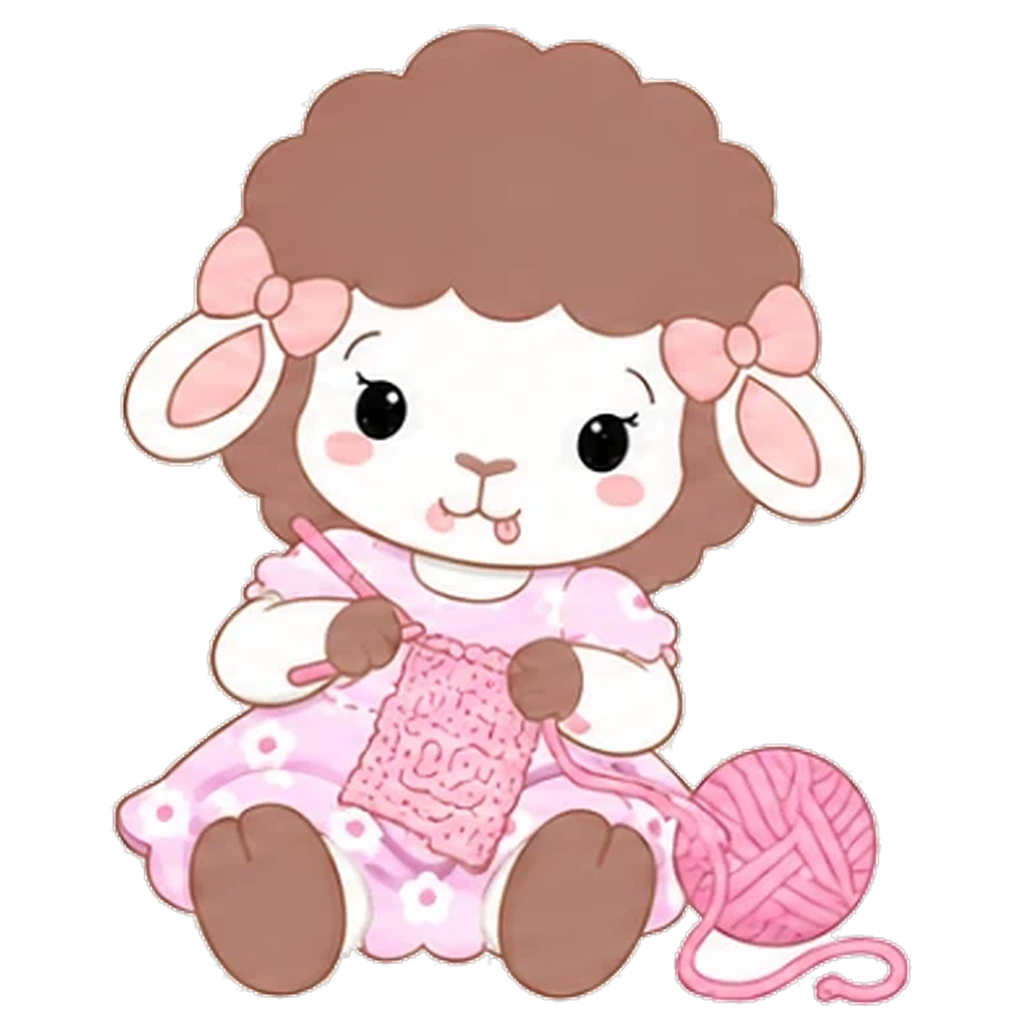
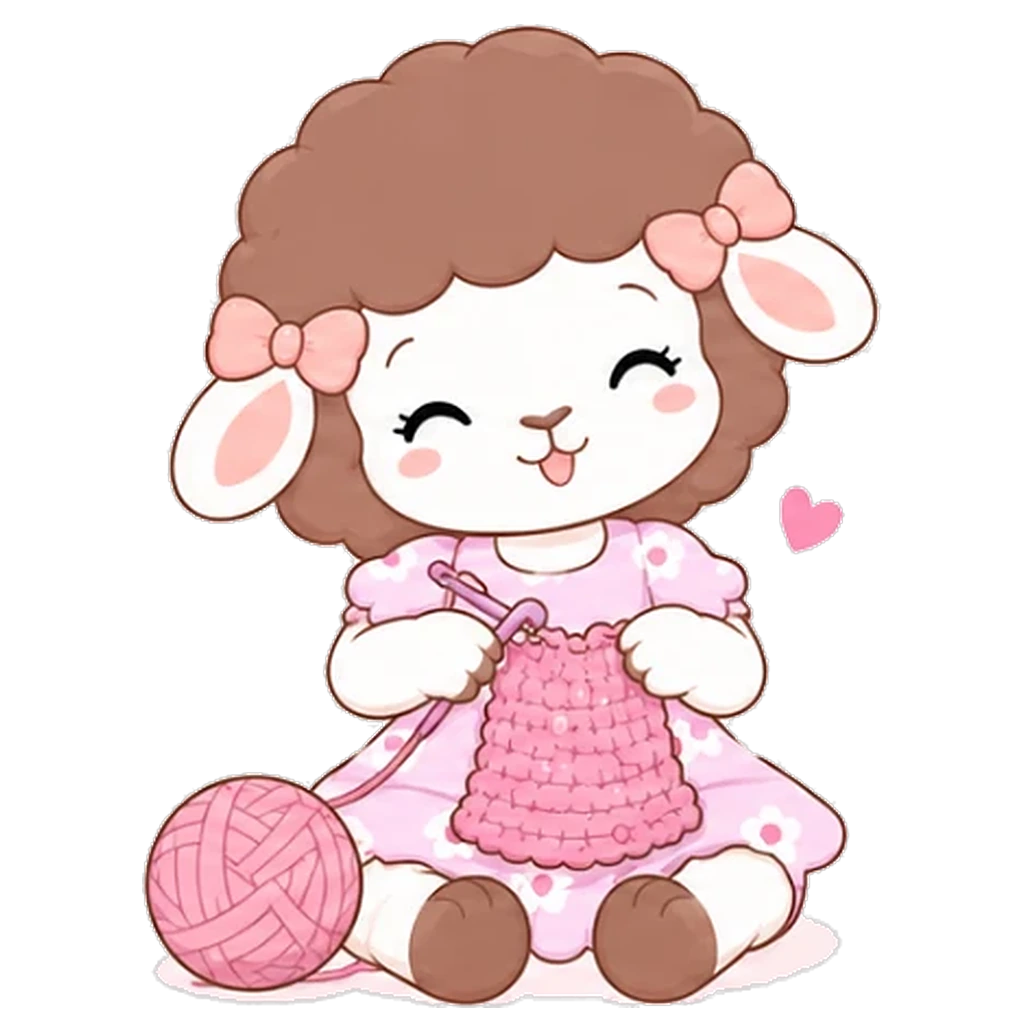
Cuento: pose tejiendo nueva y fotos reales en juegos y tutorial (#330)
* Rosina tejiendo: nueva pose con gancho; pendientes de poses borrosas

Claude-Session: https://claude.ai/code/session_01U9SAsfVct6L94yoocG63si

* Juegos y tutorial: fotos reales de ovillos, gancho, tijeras, aguja y nudo corredizo

Claude-Session: https://claude.ai/code/session_01U9SAsfVct6L94yoocG63si

* Arregla el cierre de plantilla en app.js del cuento

Claude-Session: https://claude.ai/code/session_01U9SAsfVct6L94yoocG63si

---------

diff --git a/aventuras-de-rosina/js/dibujos.js b/aventuras-de-rosina/js/dibujos.js
@@ -3,7 +3,7 @@
 // Rosina NO se dibuja aquí: usa las imágenes oficiales de /img/stickers/; los amigos, las poses de /img/aventuras/plano/ (ver personajes.js).
 // Para reemplazar un dibujo por una imagen o un video final, ver herramientas/aventuras-de-rosina/LEEME.md (sección "Cambiar dibujos por fotos o videos").
 
-import { POSES_PLANO } from '../contenido/personajes.js?v=25';
+import { POSES_PLANO } from '../contenido/personajes.js?v=28';
 
 const HA = '#cc1786';   // hilo, borde (fucsia de marca)
 const HB = '#ff66c4';   // hilo, relleno (rosa de marca)
@@ -28,6 +28,10 @@ const defsFlecha = `<defs><marker id="pf" viewBox="0 0 10 10" refX="8" refY="5" 
  *  hacia la derecha; ang gira el conjunto. La imagen se estira un poco a lo largo para que quede más cuerpo fino donde van los bucles. */
 const IMP = '/img/aventuras/implementos/';
 const imagen = (nombre, x, y, w, h, ajuste = 'xMidYMid meet') => `<image href="${IMP}${nombre}.webp" x="${x}" y="${y}" width="${w}" height="${h}" preserveAspectRatio="${ajuste}"/>`;
+// Fotos reales de los juegos (hojas de Sara, 17-oct-2026; recortes en img/aventuras/fotos/ con herramientas/aventuras-de-rosina/recortar_fotos_juegos.py).
+const CREMA = '#F6F3EC';
+const foto = (n, x, y, w, h) => `<image href="/img/aventuras/fotos/${n}.webp" x="${x}" y="${y}" width="${w}" height="${h}" preserveAspectRatio="xMidYMid meet"/>`;
+const svgFoto = (contenido) => `<svg class="dib dib-foto" viewBox="0 0 330 200" role="presentation" aria-hidden="true" focusable="false" xmlns="http://www.w3.org/2000/svg"><rect width="100%" height="100%" rx="18" fill="${CREMA}"/>${contenido}</svg>`;
 const gancho = (x, y, ang = 0, s = 1) =>
   `<g transform="translate(${x} ${y}) rotate(${ang}) scale(${s})">${imagen('gancho', 0, -9.1, 190, 31.4, 'none')}</g>`;
 
@@ -61,35 +65,31 @@ const PINTORES = {
     ${gancho(150, 134, -3, .55)}
     <ellipse cx="170" cy="188" rx="46" ry="9" fill="#FBE4EF"/>`),
 
-  ovillo: (p) => svg(`
-    ${imagen('ovillo', 92, 14, 150, 164)}
-    ${p.cola ? `${texto(66, 188, 'la cola', 14)}` : ''}`),
+  ovillo: (p) => svgFoto(`
+    ${foto('ovillo', 70, 4, 190, 192)}
+    ${p.cola ? `<rect x="196" y="160" width="86" height="26" rx="13" fill="#fff" opacity=".9"/>${texto(239, 178, 'la cola', 14)}` : ''}`),
 
-  gancho: () => svg(`${defsFlecha}
-    ${gancho(36, 100, 0, 1.3)}
-    ${texto(40, 58, 'Punta', 15)}${flecha('M42,64 L40,90')}
-    ${texto(140, 160, 'Curva', 15)}${texto(140, 178, 'del gancho', 14, 'middle', 500)}${flecha('M124,146 L54,100')}
-    ${texto(225, 62, 'Mango', 15)}${flecha('M225,68 L225,88')}`),
+  gancho: () => svgFoto(`${defsFlecha}
+    ${foto('gancho', 60, 4, 210, 192)}
+    <rect x="12" y="14" width="58" height="26" rx="13" fill="#fff" opacity=".92"/>${texto(41, 32, 'Punta', 15)}${flecha('M46,42 L84,58')}
+    <rect x="12" y="92" width="112" height="44" rx="14" fill="#fff" opacity=".92"/>${texto(68, 110, 'Curva', 15)}${texto(68, 127, 'del gancho', 14, 'middle', 500)}${flecha('M96,92 L98,58')}
+    <rect x="250" y="120" width="68" height="26" rx="13" fill="#fff" opacity=".92"/>${texto(284, 138, 'Mango', 15)}${flecha('M262,120 L238,104')}`),
 
   // Tijeras de punta redonda y aguja lanera de punta roma (ilustraciones de ChatGPT recortadas en img/aventuras/implementos/).
-  tijeras: () => svg(`
-    ${imagen('tijeras', 12, 18, 176, 115)}
-    ${texto(100, 156, 'Tijeras de punta redonda', 14)}
-    ${imagen('aguja', 196, 24, 124, 53)}
-    ${texto(258, 98, 'Aguja lanera', 14)}${texto(258, 114, '(punta roma)', 13, 'middle', 500)}
-    <rect x="206" y="140" width="104" height="30" rx="15" fill="${HA}"/>${texto(258, 161, 'Solo adultos', 14, 'middle', 700, '#fff')}`),
+  tijeras: () => svgFoto(`
+    ${foto('tijeras', 6, 4, 150, 150)}${texto(81, 172, 'Tijeras de punta', 13)}${texto(81, 188, 'redonda', 13)}
+    ${foto('aguja', 160, 14, 166, 124)}${texto(243, 152, 'Aguja lanera', 14)}${texto(243, 168, '(punta roma)', 12, 'middle', 500)}
+    <rect x="198" y="174" width="92" height="22" rx="11" fill="${HA}"/>${texto(244, 190, 'Solo adultos', 12, 'middle', 700, '#fff')}`),
 
   nudo1: () => svg(`${defsFlecha}
     ${hilo('M60,176 C80,146 122,116 150,100 C202,64 214,16 164,22 C114,28 118,82 150,100 C176,116 222,150 268,176', 8)}
     ${texto(58, 196, 'la cola', 14, 'start')}${texto(270, 196, 'al ovillo', 14, 'end')}
     ${texto(240, 40, 'cruza los hilos', 14, 'start')}${flecha('M238,46 L170,92')}`),
 
-  nudo2: () => svg(`${defsFlecha}
-    ${gancho(60, 96, 0, 1.2)}
-    ${lazoGancho(100, 96, 15, 22)}
-    ${hilo('M118,120 C112,150 96,170 70,184', 6)}${hilo('M122,72 C150,40 230,44 270,70', 6)}
-    ${texto(70, 196, 'la cola', 14, 'middle')}${texto(262, 40, 'al ovillo', 14, 'end')}
-    ${texto(190, 150, 'bucle en el gancho', 14, 'start')}${flecha('M188,142 L138,108')}`),
+  nudo2: () => svgFoto(`${defsFlecha}
+    ${foto('nudo-corredizo', 0, 20, 330, 160)}
+    <rect x="8" y="150" width="64" height="26" rx="13" fill="#fff" opacity=".92"/>${texto(40, 168, 'al ovillo', 14)}
+    <rect x="150" y="150" width="172" height="26" rx="13" fill="#fff" opacity=".92"/>${texto(236, 168, 'bucle en el gancho', 14)}${flecha('M200,150 L130,100')}`),
 
   // Agarre de cuchillo: la mano que más usas toma el gancho desde arriba (el mango descansa en la palma y el índice se apoya sobre el gancho);
   // la otra mano sujeta la base del nudo entre el pulgar y el dedo medio, y el hilo pasa por el índice. Dibujo esquemático y provisional.
@@ -143,12 +143,7 @@ const PINTORES = {
     ${texto(176, 160, 'jala por los 2 bucles', 15, 'start')}${flecha('M170,152 L126,116')}
     ${texto(160, 44, 'queda 1 bucle', 15)}`),
 
-  // Solo la lana ideal (gruesa y clara) usa la imagen del ovillo; la fina y la peluda conservan su dibujo.
-  muestraLana: (p) => {
-    if (p.variante === 'gruesa') return svg(`${imagen('ovillo', 28, 12, 150, 164)}${hilo('M158,150 C196,176 224,120 262,146', 13, HA, '#FFC6E2')}`, '0 0 300 200');
-    if (p.variante === 'fina') return svg(`<circle cx="100" cy="100" r="40" fill="#4a3a4f" stroke="#2b2430" stroke-width="3"/>${[0, 1, 2, 3, 4, 5].map((i) => `<path d="M${64 + i * 4},${84 + i * 8} q36,-14 ${72 - i * 8},2" fill="none" stroke="#7d6a82" stroke-width="1.5"/>`).join('')}${hilo('M140,124 C170,108 190,150 220,128 S250,118 276,130', 2.5, '#2b2430', '#5b4a60')}`, '0 0 300 200');
-    return svg(`<circle cx="100" cy="100" r="50" fill="#e29ac0" stroke="#b86f97" stroke-width="3"/>${Array.from({ length: 36 }, (_, i) => { const a = (i / 36) * Math.PI * 2; return `<path d="M${100 + Math.cos(a) * 46},${100 + Math.sin(a) * 46} l${Math.cos(a) * 16},${Math.sin(a) * 16}" stroke="#b86f97" stroke-width="3" stroke-linecap="round"/>`; }).join('')}${hilo('M156,128 C186,112 206,150 236,128 S262,118 282,130', 12, '#b86f97', '#e29ac0')}`, '0 0 300 200');
-  },
+  muestraLana: (p) => svgFoto(foto({ gruesa: 'lana-gruesa', fina: 'lana-fina', peluda: 'lana-peluda' }[p.variante] || 'lana-gruesa', 0, 0, 330, 200)),
 
   nudoSolo: () => svg(`${hilo('M70,120 C90,40 170,50 150,110 C130,170 60,130 120,80 C180,30 250,90 200,130 C160,160 120,130 160,100', 7)}${hilo('M60,150 C30,170 40,190 80,186 M200,140 C240,160 270,150 280,176', 7)}`),
 

diff --git a/aventuras-de-rosina/contenido/misiones.js b/aventuras-de-rosina/contenido/misiones.js
@@ -49,7 +49,7 @@ export const MISIONES = [
           titulo: 'El gancho',
           texto: 'El gancho de crochet tiene una punta, una curva donde se engancha el hilo y un mango. Para empezar, puedes usar uno de 5 a 6 mm con un mango cómodo.',
           dibujo: { tipo: 'gancho' },
-          alt: 'Dibujo de un gancho de crochet con sus 3 partes señaladas: punta, curva y mango.',
+          alt: 'Foto de un gancho de crochet con sus 3 partes señaladas: punta, curva y mango.',
           pista: 'La curva cerca de la punta ayuda a sujetar el hilo. La llamaremos “la curva del gancho”.',
           simple: 'Mira tu gancho y señala la punta, la curva y el mango.',
           adulto: 'Un mango ancho facilita el agarre en manos pequeñas. Revise que la punta esté lisa y sin rebabas antes de cada sesión.',
@@ -58,7 +58,7 @@ export const MISIONES = [
           titulo: 'Tijeras y aguja lanera',
           texto: 'Las tijeras las usa solo una persona adulta. La aguja lanera, de punta roma, la usaremos más adelante para esconder los hilitos.',
           dibujo: { tipo: 'tijeras' },
-          alt: 'Dibujo de unas tijeras de punta redonda y una aguja lanera con un aviso: las usa un adulto.',
+          alt: 'Foto de unas tijeras de punta redonda y una aguja lanera con un aviso: las usa un adulto.',
           pista: 'Si necesitas cortar el hilo, pídele a un adulto que lo haga contigo.',
           simple: 'Practica decir en voz alta: “¿Me ayudas a cortar el hilo, por favor?”.',
           adulto: 'Use tijeras de punta redonda. Guarde las agujas y los ganchos en un estuche al terminar. No deje tijeras al alcance de menores sin supervisión.',
@@ -180,7 +180,7 @@ export const MISIONES = [
           titulo: 'El nudo inicial (nudo corredizo)',
           texto: 'Pasa el gancho por el centro del lazo. Con el gancho, toma la hebra que viene del ovillo y pásala a través del lazo. Coloca el nuevo bucle en el gancho y tira suavemente de la cola para ajustar el nudo.',
           dibujo: { tipo: 'nudo2' },
-          alt: 'Dibujo de un gancho con un bucle de hilo ya puesto: el nudo inicial.',
+          alt: 'Foto de un gancho con un bucle de hilo ya puesto: el nudo inicial.',
           pista: 'Tira de la cola, no de la hebra que viene del ovillo. El bucle debe quedar sujeto, pero poder deslizarse por el gancho.',
           simple: 'Pide a una persona adulta que haga el nudo una vez y observa cómo se ajusta tirando de la cola.',
           adulto: 'El nudo inicial se ajusta tirando de la cola. Compruebe que el bucle se deslice por el gancho sin quedar flojo ni demasiado apretado.',

diff --git a/aventuras-de-rosina/js/app.js b/aventuras-de-rosina/js/app.js
@@ -3,14 +3,14 @@
 // Privacidad: no hay cuentas, ni cookies, ni analítica, ni peticiones a servidores. Todo vive en este navegador (ver estado.js).
 // Para cambiar textos o añadir capítulos NO hay que tocar este archivo: ver contenido/misiones.js y herramientas/aventuras-de-rosina/LEEME.md.
 
-import { MISIONES, FUTUROS, LOGROS } from '../contenido/misiones.js?v=25';
-import { PERSONAJES, POSES_ROSINA, AMIGOS, PALETA } from '../contenido/personajes.js?v=25';
-import { personaje, dibujo, mapaFondo } from './dibujos.js?v=25';
-import { jugar, miniBosque } from './juegos.js?v=25';
-import * as E from './estado.js?v=25';
-import * as voz from './voz.js?v=25';
-import * as musica from './musica.js?v=25';
-import { pers, sinNombre } from './nombre.js?v=25';
+import { MISIONES, FUTUROS, LOGROS } from '../contenido/misiones.js?v=28';
+import { PERSONAJES, POSES_ROSINA, AMIGOS, PALETA } from '../contenido/personajes.js?v=28';
+import { personaje, dibujo, mapaFondo } from './dibujos.js?v=28';
+import { jugar, miniBosque } from './juegos.js?v=28';
+import * as E from './estado.js?v=28';
+import * as voz from './voz.js?v=28';
+import * as musica from './musica.js?v=28';
+import { pers, sinNombre } from './nombre.js?v=28';
 
 // Título del libro (Libro 1 de «Rosina y el Bosque Tejido», que es el nombre del mundo y del mapa).
 const TITULO_LIBRO = 'Rosina y la gran aventura de la primera cadeneta';
@@ -75,7 +75,8 @@ const vozOk = () => vozListo;
 const botonVoz = () => (vozListo ? '<button type="button" class="btn-voz" data-accion="leer" aria-label="Escuchar en voz alta" title="Escuchar">🔊</button>' : '');
 
 // ---------------------------------------------------------------- piezas comunes
-const fig = (def, alt) => `<figure class="paso-fig"><div class="paso-dib">${dibujo(def)}</div><figcaption class="paso-alt">${esc(alt)} <span class="provisional">Dibujo de ayuda (provisional)</span></figcaption></figure>`;
+const CON_FOTO = ['ovillo', 'gancho', 'tijeras', 'nudo2'];  // pasos con foto real (img/aventuras/fotos/): sin la etiqueta de dibujo provisional
+const fig = (def, alt) => `<figure class="paso-fig"><div class="paso-dib">${dibujo(def)}</div><figcaption class="paso-alt">${esc(alt)}${CON_FOTO.includes(def && def.tipo) ? '' : ' <span class="provisional">Dibujo de ayuda (provisional)</span>'}</figcaption></figure>`;
 // Rosina en las escenas del libro: los stickers oficiales (varias poses). alt '' la marca como decorativa.
 const ALT_ROSINA = {
   llora: 'Rosina llora de felicidad, rodeada de corazones y estrellitas.', celebra: 'Rosina celebra con los brazos en alto y estrellitas.',

diff --git a/aventuras-de-rosina/js/juegos.js b/aventuras-de-rosina/js/juegos.js
@@ -3,9 +3,9 @@
 // Reglas de diseño: sin tiempo, sin vidas, sin puntaje que compare ni sonidos. Un error siempre recibe una pista amable y se puede
 // reintentar sin límite; tras dos errores se ofrece ver la respuesta y seguir, para que un juego nunca bloquee a nadie.
 
-import { dibujo } from './dibujos.js?v=25';
-import { conNombre } from './nombre.js?v=25';
-import { PALETA, POSES_ROSINA } from '../contenido/personajes.js?v=25';
+import { dibujo } from './dibujos.js?v=28';
+import { conNombre } from './nombre.js?v=28';
+import { PALETA, POSES_ROSINA } from '../contenido/personajes.js?v=28';
 
 const esc = (s) => String(s == null ? '' : s).replace(/[&<>"']/g, (c) => ({ '&': '&amp;', '<': '&lt;', '>': '&gt;', '"': '&quot;', "'": '&#39;' }[c]));
 

diff --git a/aventuras-de-rosina/index.html b/aventuras-de-rosina/index.html
@@ -17,7 +17,7 @@
 <!-- Producto infantil: a propósito NO lleva Google Tag Manager, aviso de cookies, cuentas, carrito ni scripts de terceros.
      Solo usa las fuentes y las imágenes del propio sitio. -->
 <link rel="stylesheet" href="/css/fuentes.css">
-<link rel="stylesheet" href="/aventuras-de-rosina/aventura.css?v=25">
+<link rel="stylesheet" href="/aventuras-de-rosina/aventura.css?v=28">
 </head>
 <body>
 <a class="saltar" href="#app">Saltar al contenido</a>
@@ -61,6 +61,6 @@
   </div>
 </dialog>
 
-<script type="module" src="/aventuras-de-rosina/js/app.js?v=25"></script>
+<script type="module" src="/aventuras-de-rosina/js/app.js?v=28"></script>
 </body>
 </html>

diff --git a/aventuras-de-rosina/contenido/personajes.js b/aventuras-de-rosina/contenido/personajes.js
@@ -35,7 +35,7 @@ export const POSES_ROSINA = {
   orgullosa: '/img/aventuras/rosina-original/orgullosa.webp',
   pensando: '/img/aventuras/rosina-original/pensando.webp',
   enojada: '/img/aventuras/rosina-original/enojada.webp',
-  tejiendo: '/img/aventuras/rosina-original/tejiendo.webp',
+  tejiendo: '/img/aventuras/rosina-original/tejiendo2.webp',
   gancho: '/img/aventuras/rosina-original/gancho.webp',
   contando: '/img/aventuras/rosina-original/contando.webp',
   mapa: '/img/aventuras/rosina-original/mapa.webp',

diff --git a/herramientas/aventuras-de-rosina/recortar_fotos_juegos.py b/herramientas/aventuras-de-rosina/recortar_fotos_juegos.py
@@ -1,0 +1,18 @@
+#!/usr/bin/env python3
+"""Recorta las fotos reales de los juegos de la aventura (hojas de Sara en ilustraciones/juegos-reales/) y las deja en img/aventuras/fotos/
+(WebP de hasta 720 px, sin completar: el juego las centra sobre el color crema del fondo)."""
+import os
+from PIL import Image
+R = os.path.join(os.path.dirname(__file__), 'ilustraciones', 'juegos-reales')
+S = os.path.join(os.path.dirname(__file__), '..', '..', 'img', 'aventuras', 'fotos')
+CORTES = {  # hoja: {nombre: (x0, y0, x1, y1)}
+    'lanas-3-ovillos.webp': {'lana-gruesa': (0, 180, 560, 900), 'lana-fina': (580, 330, 940, 900), 'lana-peluda': (950, 190, 1448, 800)},
+    'implementos-5-fotos.webp': {'ovillo': (4, 4, 481, 538), 'gancho': (490, 4, 960, 538), 'tijeras': (968, 4, 1446, 538), 'aguja': (4, 548, 720, 1084), 'nudo-corredizo': (728, 548, 1446, 1084)},
+}
+os.makedirs(S, exist_ok=True)
+for hoja, d in CORTES.items():
+    im = Image.open(os.path.join(R, hoja)).convert('RGB')
+    for n, caja in d.items():
+        c = im.crop(caja); c.thumbnail((720, 720), Image.LANCZOS)
+        c.save(os.path.join(S, n + '.webp'), quality=82, method=6)
+        print('ok', n, c.size, '#%02x%02x%02x' % c.getpixel((c.width // 2, 3)))

diff --git a/PENDIENTES.md b/PENDIENTES.md
@@ -200,3 +200,6 @@ Libro digital interactivo para niños de 6 a 8 años en `/aventuras-de-rosina/` 
 - [x] Decidido por Sara (17-oct-2026): la puerta a Rosina se llama «El universo de Rosina» (no se cambia) y el chat de Rosina sale en las páginas de Rosina.
 - [ ] Rosina HD (17-oct-2026): Sara pasó 2 hojas de 6 poses en el estilo de su Rosina original (`ilustraciones/rosina-hd/rosina-original.jpg`; delgada, de línea fina). Recortadas por `recortar_hoja_hd.py` en `ilustraciones/rosina-hd/recortes/` (12 poses a 1024 px). **Falta decidir si reemplazan a las del cuento** (hoy cabezona, estilo sticker, y 10 poses de otra hoja) para no mezclar dos estilos de Rosina; Sara pidió además más poses, más expresivas.
 - [x] **Poses de Rosina en el estilo original completas (17-oct):** la hoja de Sara con gancho, dedo arriba, mochila y mapa, diploma y lupa ya está en el cuento (`hoja-6-herramientas.webp`; `tejiendo2.webp` queda sin usar). Las poses traen una sombrita rosada en el piso.
+- [ ] **Poses de Rosina borrosas (17-oct):** salen de hojas pequeñas y se ven suaves. Pedir de nuevo en alta resolución (una pose por imagen o hoja de 4, formato ancho): feliz, flor, gorro, leyendo, cartel, corazón, pulgar, salto, celebra, aplaude, beso, sueño, corriendo, llora; luego, con menos urgencia: abrazo, contando, diploma, enojada, gancho, lupa, mapa, orgullosa, pensando, risa, señalando, sorpresa, triste.
+- [x] Fotos reales de Sara (17-oct) ya en el cuento: 3 ovillos (Laboratorio de colores), ovillo, gancho, tijeras, aguja y nudo corredizo (`img/aventuras/fotos/`, `recortar_fotos_juegos.py`). Siguen como dibujo: mesa, cadenetas, punto bajo, manos (agarre del hilo y del gancho), nudo enredado y los diagramas de pasos; falta la hoja con cadeneta, tejido, nudo y fila (la última imagen de Sara no llegó como archivo) y revisar que la fila de 7 puntos bajos sea correcta.
+- [ ] **Imágenes de las misiones y primeras imágenes de cada paso (pedido de Sara 17-oct):** cambiar por fotos reales las manos (agarre), historias y portadas de misión.
